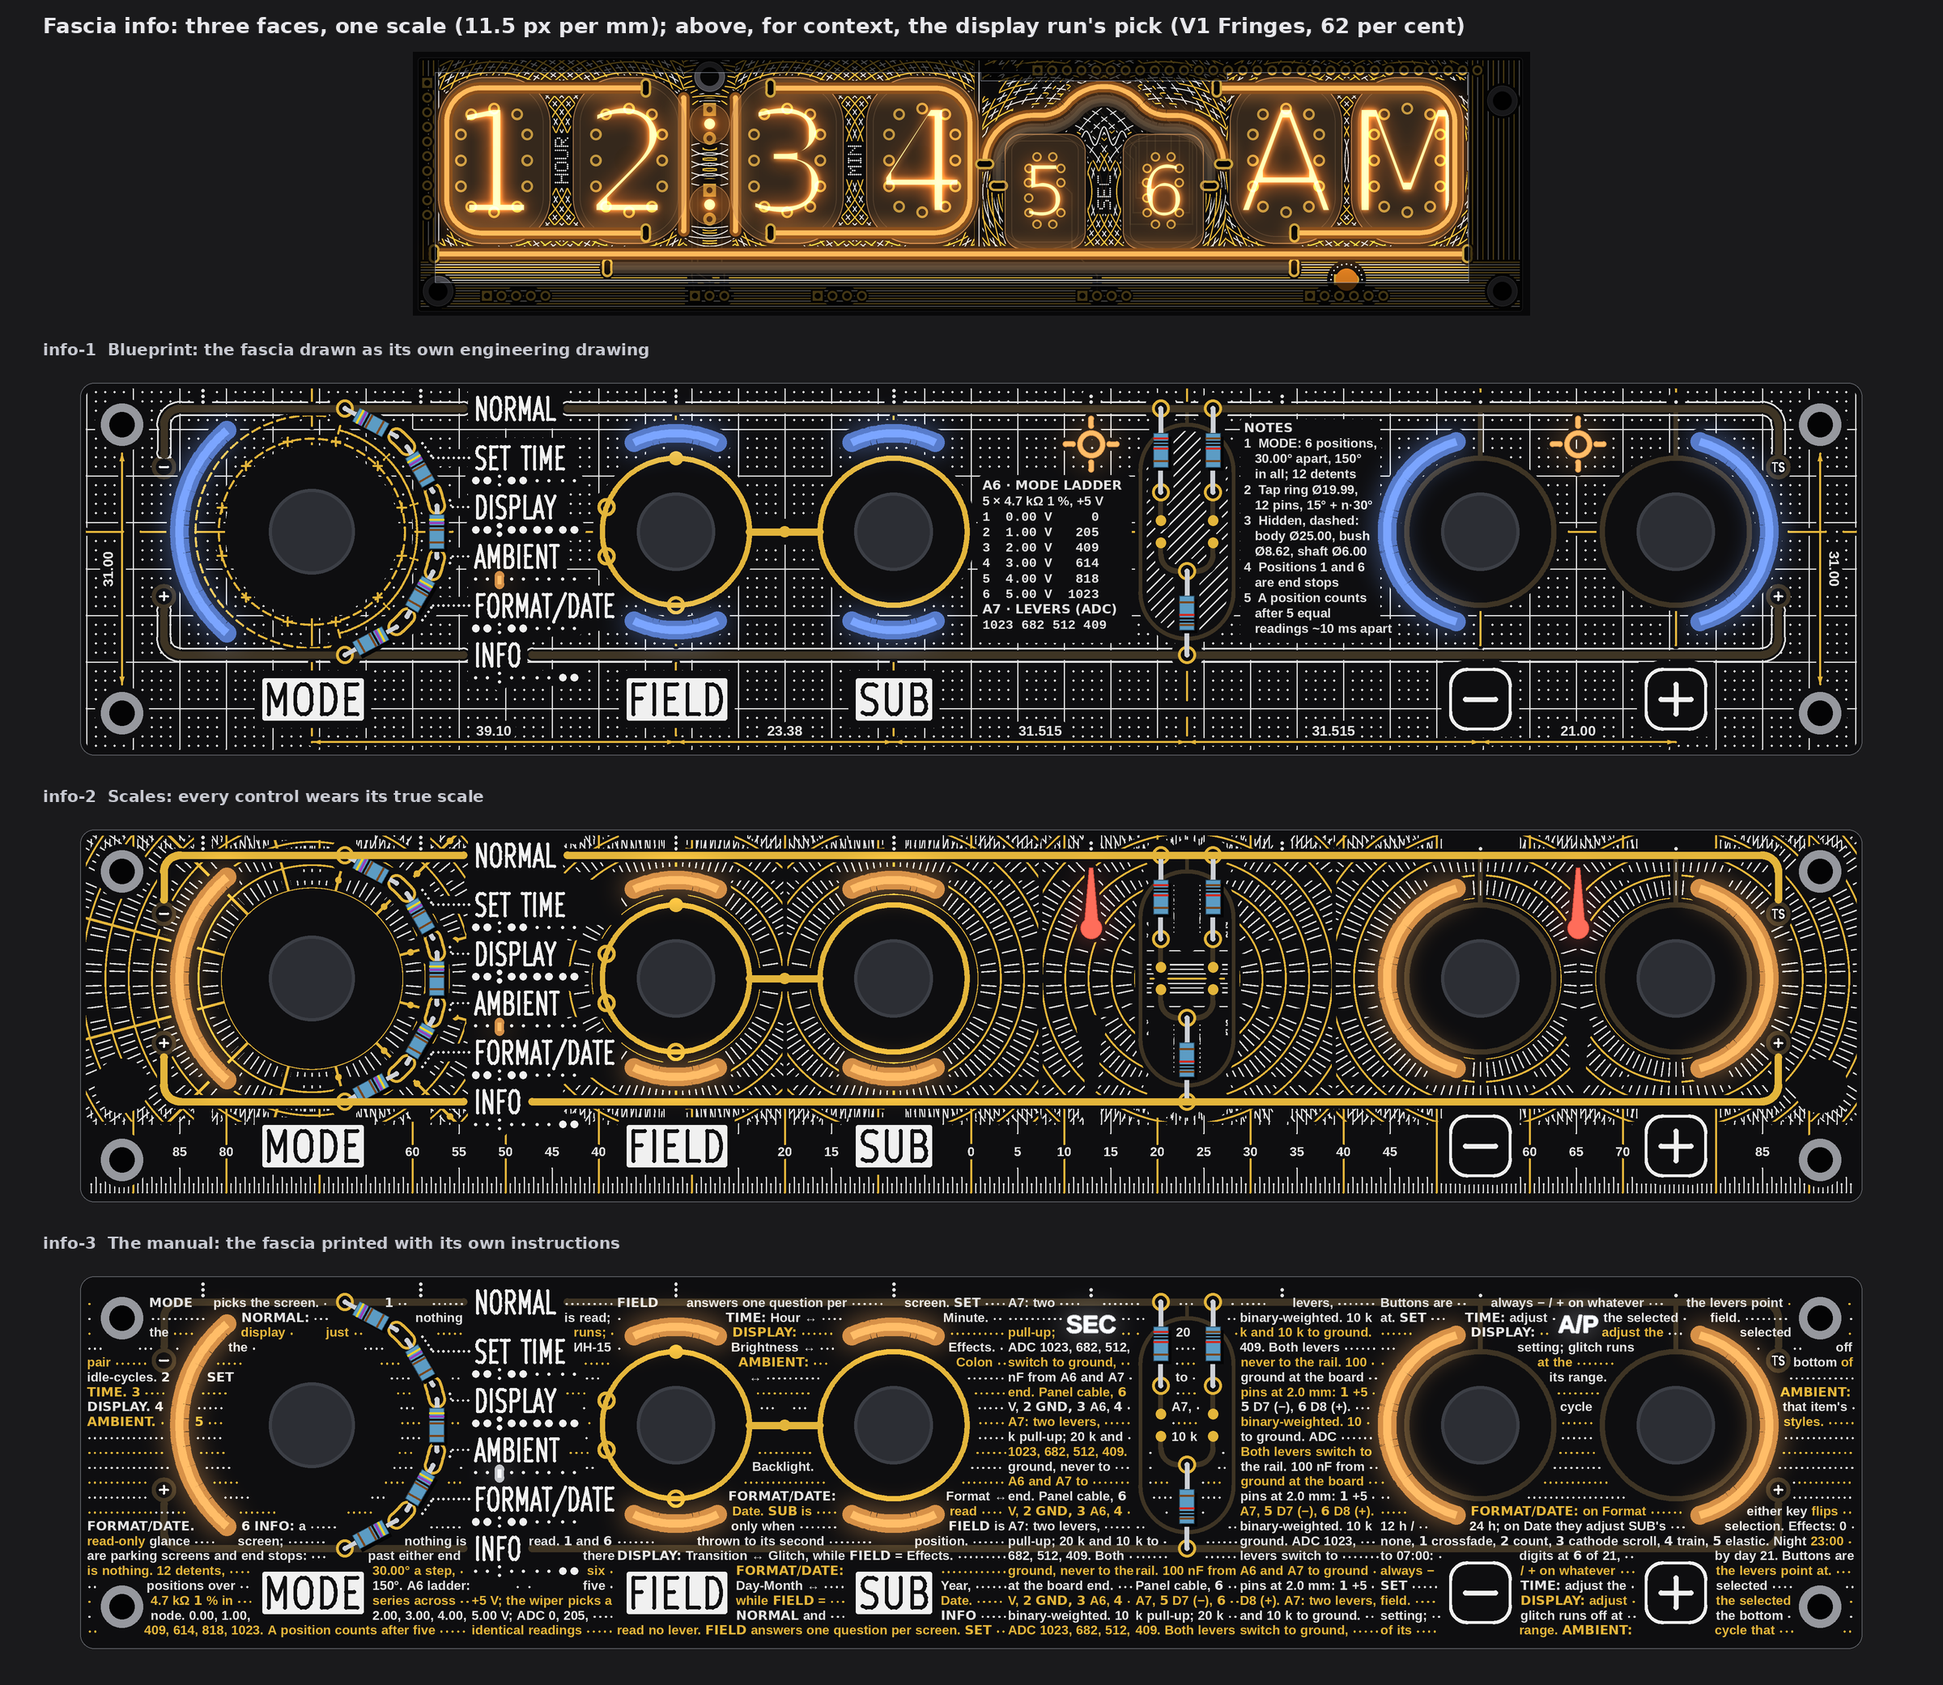
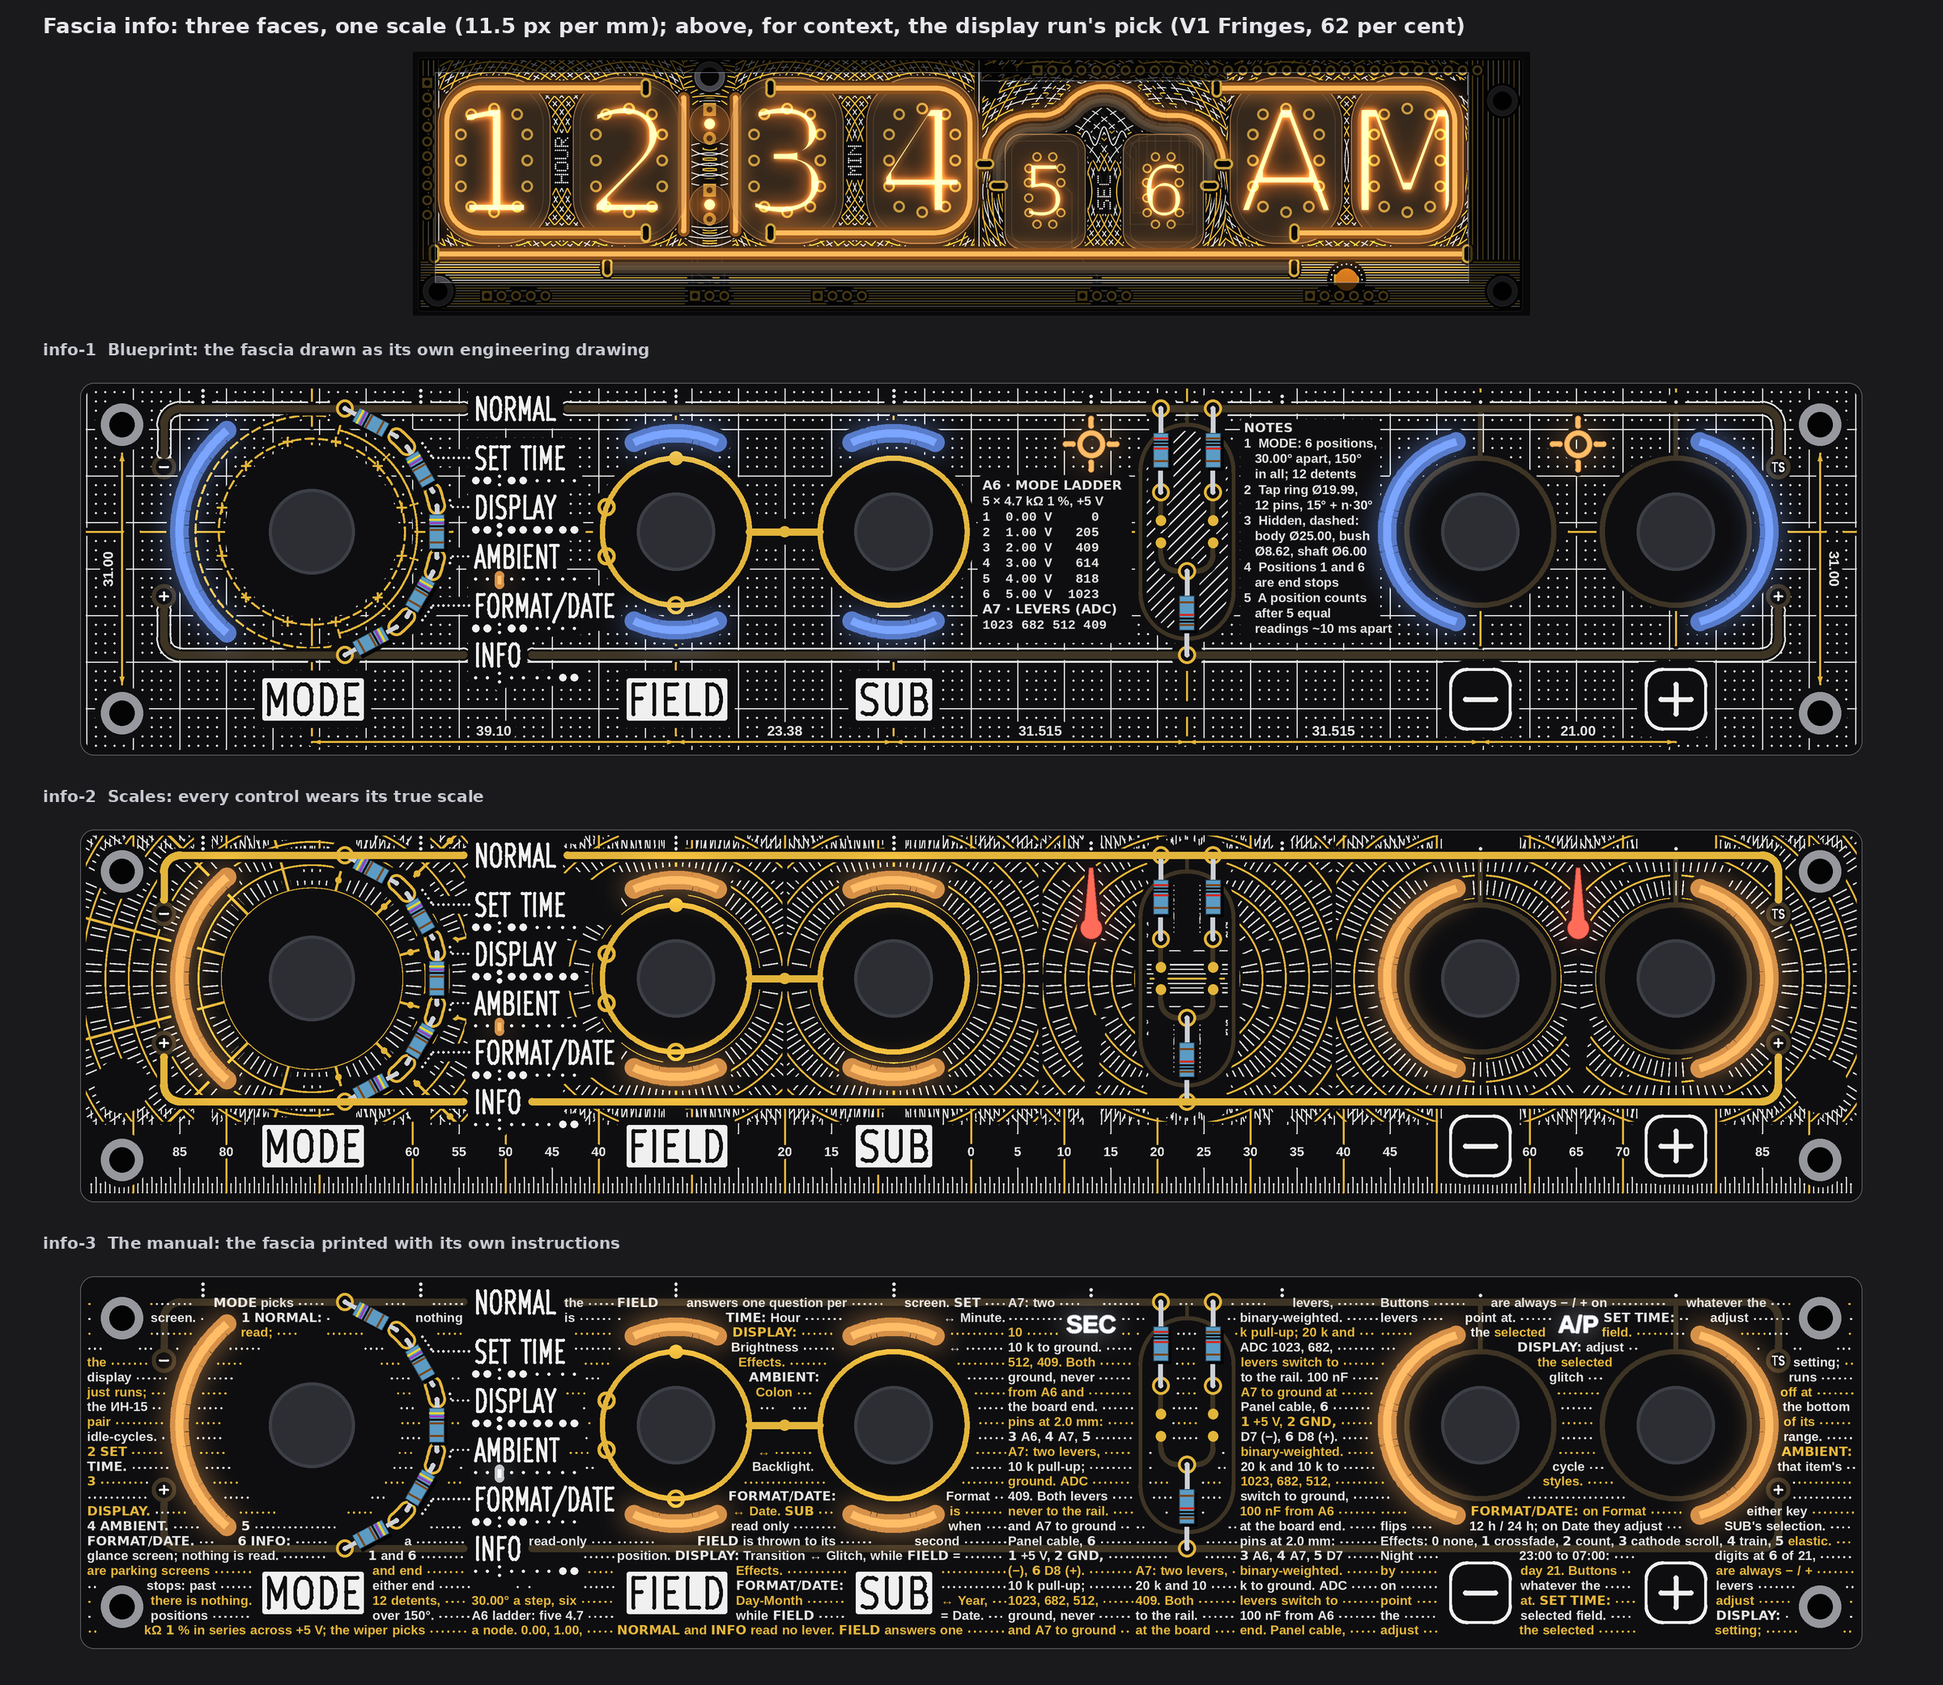
PCB/art: TS06-FASCIA info write-up, back view, detail and contact sheet; faces after the full-size look (drawings only)
Claude-Session: https://claude.ai/code/session_01WoV3gyAFgmtuk6W6Dr4bdA

diff --git a/PCB/art/TS06-FASCIA-info.md b/PCB/art/TS06-FASCIA-info.md
@@ -1,0 +1,168 @@
+# TS06 fascia, info: three faces over the fascia light base (drawings only, nothing built)
+
+2026-10-14, front round 3, run fascia-info. The owner's words for this theme: "info- infographics, indepth clock setting and data,
+measurements, charts, blueprints etc."; all three faces wild, art over the whole board, one back kept unless a change helps the theme.
+The queue changes of 19:5x UTC apply: the two top-edge info dots (S, P) are gone and their lights feed shaped windows; each face
+says what it does with the pill and the rails. Each face is fascia R with the rings-and-dots base (front-merge section 6) and
+front-merge's windows, at one scale (11.5 px per mm). The display run's pick, DISP-final V1 Fringes, stands above each face in a thin
+strip, for context only.
+
+No board, schematic, fab, tool, 3D, firmware or spec file was touched. The scripts are scratch (copies of the science run's, which
+are front-merge's), not in the repo. Marks: *measured* is from the drawing's raster (23 px per mm) or the board model; *inferred*
+is arithmetic; *assumed* is my reading.
+
+![The three faces at one scale](TS06-FASCIA-info/contact-sheet.png)
+
+## 1. What every face keeps, and the rule for printed facts
+
+* **Fixed:** the outline, holes, controls and their places, J1, the names, plates, key legends, tube maps, dot leaders and the
+  top-edge index; FIELD's and SUB's gold rings, the link, the four SUB marks on FIELD's ring, the GND via, the dial's and the
+  ladder's pads. Nothing crosses a legend; each stands on a calm ground of 0.75 mm or more.
+* **Facts:** every number, setting step and label printed on a face is from the repo; section 6 gives the source of each. The
+  setting steps are the spec's control scheme (rev B, spec Rev D.3 section 1). **The firmware does not implement that scheme yet**
+  (spec section 5, "Firmware status"); the faces print what the clock is specified to do.
+* **Fab note (once):** the bare-FR4 windows, the shaped ones included, still need the fab's yes (pass 1's coupon). Not decided here.
+
+## 2. info-1 Blueprint
+
+![info-1](TS06-FASCIA-info/info-1-blueprint.png)
+
+* **Creative decisions:** the fascia drawn as its own engineering drawing. White graph paper over the whole board; gold centre lines
+  on the control row and through every control; the MODE switch's hidden outline behind the board, dashed (body, tap ring and its
+  12 pins); a 150 degree protractor over the six positions; a dimension chain of the control pitches under the plates and the hole
+  pitch up both ends; two notes blocks (the MODE switch, the two ladders). S and P are lit **centre marks** on the axes of the tubes
+  they serve. The controls are lit blue, a cyanotype; the info lamps stay warm, like the tubes.
+* **Symmetric.** The grid is exact about the board's centre (x 95.7, y 20); each control's construction is exact on its own axes;
+  the dimension values and the notes are information on their own calm ground.
+* **Filaments:** the base's places and lengths. MODE arc 38 flex, FIELD and SUB 18.5 rigid in curved clips (or 38 flex), keys 38
+  flex: **blue** (sold in both forms). S, P and C warm, their tails unchanged. **S and P reshaped and moved:** a lit ring (r 0.9 to
+  1.5) with four lit ticks (0.6 wide, round ends, to r 3.05), dia 6.1, centres (108.6, 6.6) and (160.9, 6.6), 2.1 mm below the base's
+  dots so the marks clear the GND rail (0.39 mm, *measured*).
+* **Pill:** resistors not moved; the circuit is unchanged. Inside the capsule a white section hatch (45 degrees, 0.85 mm pitch)
+  runs round the resistors, pads and landing dots.
+* **Rails: integrated.** Each rail is ruled white along both edges (0.18 wide, 0.22 off the copper), so the bezel reads as the
+  drawing's frame. Copper and mask unchanged.
+* **White:** 1 mm dots (dia 0.2), 5 mm lines 0.15, the frame, the hatch; the notes and dimension values at 1.0 to 1.1 mm.
+* **Gold:** centre lines (dash-dot), the hidden outline (dashed), the protractor and the dimension lines, all 0.2 mm, with
+  arrowheads; isolated islands.
+* **Buildable? OK** on the base's needs (front-merge items 9 to 11) and the two reshaped windows.
+
+## 3. info-2 Scales
+
+![info-2](TS06-FASCIA-info/info-2-scales.png)
+
+* **Creative decisions:** every control wears its true scale. Concentric gold bands (2.5 mm) with white radial ticks about each
+  control fill the rails band, one cell per control, seams at the midpoints on the control row. Gold majors stand only where the
+  repo gives a position: the dial's **12 detents** (the tap pins at 15 + n x 30 degrees; the six used ones dotted in every band) and
+  each lever's **two throws** (straight up and down). The keys and the pill get minor ticks only. Below the +5V rail, a
+  **centre-zero millimetre ruler** of the board (0 at x 95.7, numbers every 5 mm, gold decades). S and P are lit **red needles**
+  pointing straight up at the tubes they serve.
+* **Symmetric:** exact about the control row (y 16) from y 0.6 to 31.4, cuts included (the masks are mirrored before drawing; a
+  pixel-level rounding of 37 px in 163 000 is left); the plates band is one ruler whose ticks are exact about the board's centre.
+* **Filaments:** the base's, warm. **S and P reshaped:** needles 1.5 mm wide at the foot, 0.45 at the tip, from y 10.2 up to 4.1,
+  with a hub r 1.15 at y 10.6; each is lit by an **18.5 rigid red** bar standing behind it (y 3.6 to 22.1), in place of the warm
+  tail; same channels (a red filament on the same drive).
+* **Pill:** resistors not moved; the circuit is unchanged. The pill is an **A7 meter**: 0 at its foot (y 27.0), 1023 at its head (y 5.0), white
+  ticks every 0.5 mm, gold ticks at the four lever states 1023, 682, 512 and 409 (at y 5.0, 12.33, 15.99 and 18.20).
+* **Rails: shown, exposed gold** (ENIG on both rails, the gauges' bezel). The art keeps 0.39 mm from them. This puts a bare +5V
+  line on the front again, which pass 4's E1 removed on purpose: the owner's call.
+* **White:** radial ticks 0.15 mm, about 0.78 mm apart in every band; the ruler's ticks; numbers 1.0 mm.
+* **Gold:** band rings 0.2 mm, majors 0.28 mm, dots r 0.36, the ruler's decades 0.22 mm; isolated islands.
+* **Buildable? OK** on the base's needs; the needles are 0.45 mm wide at the tip (the bench says whether that tip glows).
+
+![info-2 at 2x](TS06-FASCIA-info/detail-2x.png)
+
+## 4. info-3 The manual
+
+![info-3](TS06-FASCIA-info/info-3-manual.png)
+
+* **Creative decisions:** the fascia printed with its own instructions. Microtext flows round every control, ragged, one topic per
+  zone: MODE and the A6 ladder by the dial, FIELD and SUB by the levers, the A7 ladder and the panel cable by the pill, the buttons,
+  effects and night hours by the keys. Lines alternate **white and gold**; screen and control names are bold; dot leaders fill each
+  run too short for a word. S and P become **lit words**, SEC and A/P.
+* **Fully organic:** text has no mirror, and the ragged lines and leaders follow the controls, not an axis.
+* **Filaments:** the base's places and channels; MODE, levers and keys warm. **S and P reshaped** as the words SEC and A/P (capitals
+  1.9 mm, strokes about 0.5 mm) centred at (108.6, 5.15) and (160.9, 5.15); S, P and C lit **white** (sold rigid white, 18.5,
+  behind each word).
+* **Pill:** resistors not moved; the circuit is unchanged. The text runs through the capsule round the parts.
+* **Rails: hidden.** They stay under the mask and the text runs over them in white.
+* **White:** text at 1.0 mm capital height (the fab's least, `tools/dfm_check.py`), drawn bold here for the 0.15 mm stroke;
+  leader dots dia 0.2. The build sets KiCad's stroke font at 1.0 mm, stroke 0.15.
+* **Gold:** every second line of text and its leaders, where 0.35 mm from copper allows; a gold word that would come nearer is set
+  white instead. Isolated islands.
+* **Buildable? OK** on the base's needs, with all text at the fab's least height; whether the lit words read through the FR4 is
+  the bench's to say.
+
+## 5. The light base and what each face changes
+
+![The fascia's back: base and changes](TS06-FASCIA-info/lights-back.png)
+
+The base is front-merge section 6: nine windows and C, ten filaments, three fascia channels, warm. **Every face drops the S and P
+dots** (queue change A1) and lights a shaped window with the same light; C by AMBIENT stays. No face adds a channel or a filament.
+
+| Face | S and P windows | Filament change | Colours shipped | On the fascia's back |
+|---|---|---|---|---|
+| info-1 | centre marks, dia 6.1, moved 2.1 mm down to y 6.6 | none in form; controls' filaments blue | blue (MODE, levers, keys), warm (S, P, C) | the pour cut follows each mark |
+| info-2 | needles with a hub, 7.7 mm tall, at the base's x | S and P tails become 18.5 rigid red bars, standing behind the needles | warm, red (S, P) | a printed holder for each upright bar; pour cut follows the needle |
+| info-3 | the words SEC and A/P, at the base's x, y 5.15 | none in form; S, P, C tails white | warm, white (S, P, C) | the pour cut follows each word's outline |
+
+The 5 V total is unchanged (the same ten filaments). The connector stays at 6 channels.
+
+## 6. Where each printed fact comes from
+
+| Printed | Face | Source |
+|---|---|---|
+| Control pitches 39.10, 23.38, 31.515, 31.515, 21.00 (dial, FIELD, SUB, the ladder's axis, minus, plus) | 1 | the board model's centres (24.89, 63.99, 87.37, 118.885, 150.4, 171.4), *measured* in front-merge's geometry of fascia R; differences *inferred* |
+| Hole pitch 31.00 | 1 | the board model's screw holes at y 4.5 and 35.5 |
+| 6 positions, 30.00 degrees apart, 150 in all; 12 detents | 1, 2, 3 | spec section 2 (the switch table, "12 counted"); control scheme rev B, "Step angle closed" |
+| Tap ring dia 19.99, 12 pins at 15 + n x 30 degrees; body dia 25.00; bushing dia 8.62; shaft dia 6.00 | 1, 2 | spec section 2, the switch table |
+| Positions 1 and 6 are end stops; parking screens; "past either end there is nothing" | 1, 3 | spec section 1 |
+| A position counts after 5 equal readings about 10 ms apart | 1, 3 | spec section 2, item 2; firmware `ts06pair.ino`, `rotaryStable()` |
+| A6: 5 x 4.7 kOhm 1 % across +5 V; 0 to 5 V in 1 V steps; ADC 0, 205, 409, 614, 818, 1023 | 1, 3 | spec section 2, the A6 table |
+| A7: 10 k pull-up, 20 k and 10 k to ground; ADC 1023, 682, 512, 409; levers switch to ground, never to the rail | 1, 2, 3 | spec section 2; R6, R7, R8 values in the board model |
+| 100 nF from A6 and A7 to ground at the board end | 3 | spec section 2, item 1 |
+| Panel cable, 6 pins at 2.0 mm: 1 +5 V, 2 GND, 3 A6, 4 A7, 5 D7 (-), 6 D8 (+) | 3 | spec section 2, the J1 table (the connector family's trade name left off) |
+| The six screens and each lever's and button's job; SUB read only when FIELD is thrown to its second position; glitch runs off at the bottom of its range; Format: either key flips 12 h / 24 h | 3 | spec section 1, the control table and the SUB rule |
+| NORMAL: the ИН-15 pair idle-cycles | 3 | spec section 1, Rev D addition |
+| Effects 0 none, 1 crossfade, 2 count, 3 cathode scroll, 4 train, 5 elastic | 3 | firmware `nixieClock_TS06.ino`, the `FLIP_EFFECT` comment |
+| Night 23:00 to 07:00; digits 6 of 21 at night, 21 by day | 3 | firmware `nixieClock_TS06.ino`: `NIGHT_START 23`, `NIGHT_END 7`, `INDI_BRIGHT 21`, `INDI_BRIGHT_N 6`, range 1 to 21 |
+| A/P (the lit word) | 3 | spec section 3: the ИН-15Б's A means AM, the ИН-15А's Р means PM |
+| S and P marks, needles and words on x 108.6 and 160.9 | 1, 2, 3 | pass 2's light table (S under S10's index, P between minus and plus); pass 4's tube positions (S10 at 108.6; the ИН-15 pair at 150.4 and 171.4, centre 160.9) |
+| Ruler: millimetres from the board's centre (x 95.7 of 191.4) | 2 | the board model's outline |
+| Lever majors straight up and down | 2 | front-merge section 6: the levers' two throws (windows at -115 to -65 and 65 to 115 degrees) |
+
+## 7. The checks (*measured* on the raster, 23 px per mm)
+
+| Check | Rule | info-1 | info-2 | info-3 |
+|---|---|---|---|---|
+| White, gold to a name, plate, key legend, tube map, leader or index dot | 0.75 | 0.78, 0.80 | 0.78, 0.80 | 1.00, 1.00 |
+| White, gold to E1's exposed gold (rings, link, marks, pads) | 0.30 (gold frame 0.75 drawn) | 0.43, 0.77 | 0.43, 0.74 | 0.74, 0.91 |
+| Pattern gold to any copper | 0.30 | 0.39 | 0.35 | 0.53 |
+| Art to the exposed rails (info-2 only) | 0.30 | | 0.39, 0.39 | |
+| White, gold to a lit window | 0.35 | 0.39, 0.43 | 0.39, 0.40 | 0.52, 0.61 |
+| White to the pattern's gold | 0.30 | 0.33 | 0.33 | 0.30 |
+| Lit window to copper | 0.30 | 0.39 | 0.68 | 0.68 |
+| Free board within 1.2 mm of some ink | (no empty space) | 99 % | 94 % | 95 % |
+
+* White may run over copper under the mask (the rails, the key rings, the capsule), so white-to-copper is 0 by design on every
+  face; on info-2 the rails are exposed and the art keeps 0.39 from them.
+* The least window-to-legend gap is still the base's info C to AMBIENT's box, 0.26 on this raster (front-merge gave 0.32); it is the
+  base's, not a face's.
+* What is left dark is the information's own ground and the ring of mask round each knob and window.
+
+## 8. My pick
+
+**info-2 Scales.** One idea fills the whole board: each control wears its real scale, the gold says only what the repo says (the
+12 detents, the two throws, the four lever states), and it is exactly mirrored on the control row. info-1 Blueprint is the calm,
+legible choice if the owner wants the fascia to read as a drawing rather than an instrument.
+
+## 9. Left open, assumed
+
+* *Assumed:* the S and P "tails" are short bars that can sit behind a 5 to 8 mm window (front-merge calls them tails); info-2's
+  upright 18.5 bars need a printed holder each.
+* *Assumed:* the MODE switch's tap pins sit at 15 + n x 30 degrees in the board's own frame, as the dial's tap pads (at -75 to +75
+  degrees about the dial) suggest.
+* The setting steps printed on info-3 (and the notes of info-1) are the spec's scheme; the firmware still runs the old controls
+  (spec section 5). If the scheme changes before the build, the text changes with it.
+* Not checked: KiCad DRC (no board file edited); text set in KiCad's stroke font (drawn here in a plain sans, bold for the stroke);
+  the back's copper behind the reshaped windows. The connector's place on the back is not fixed (front-merge item 11).
